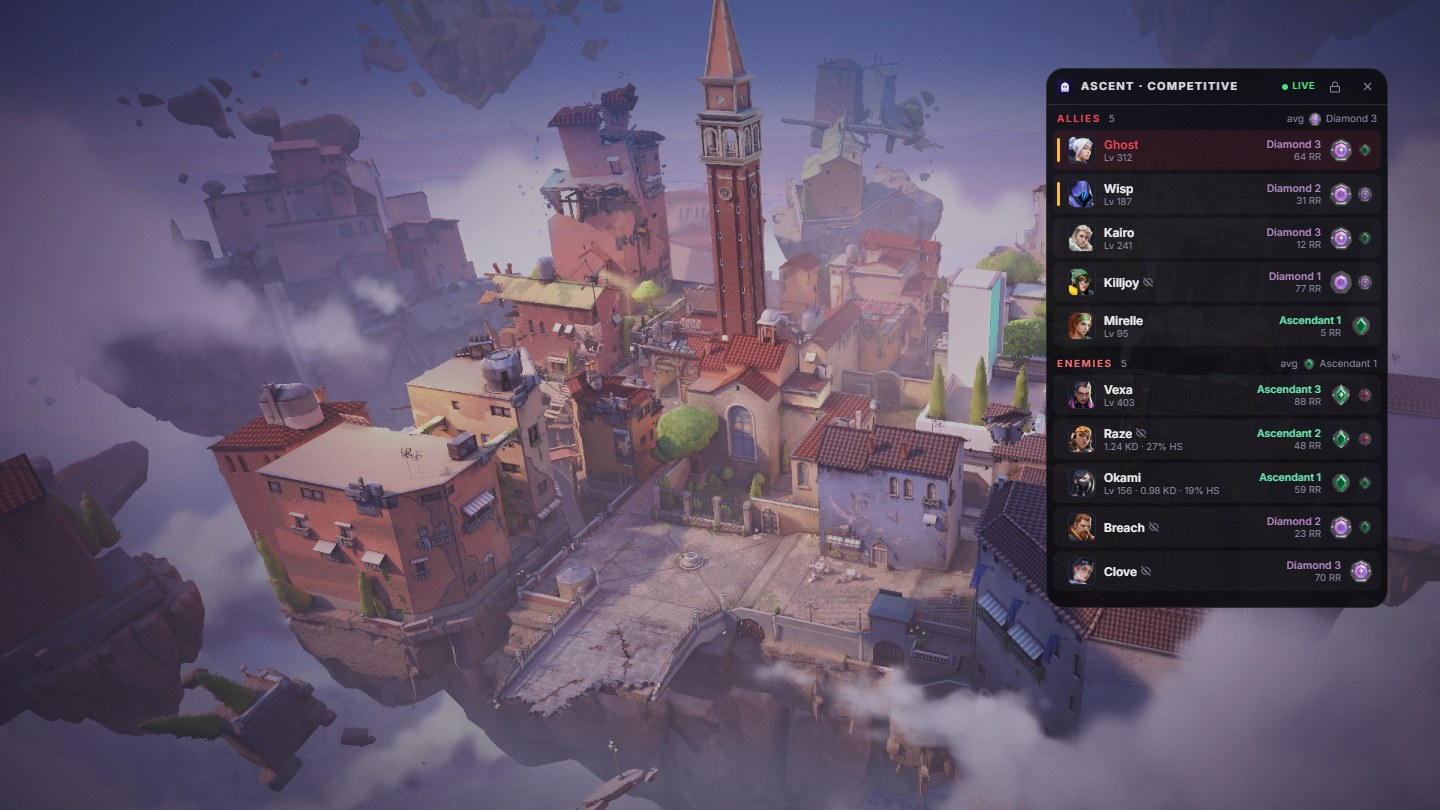
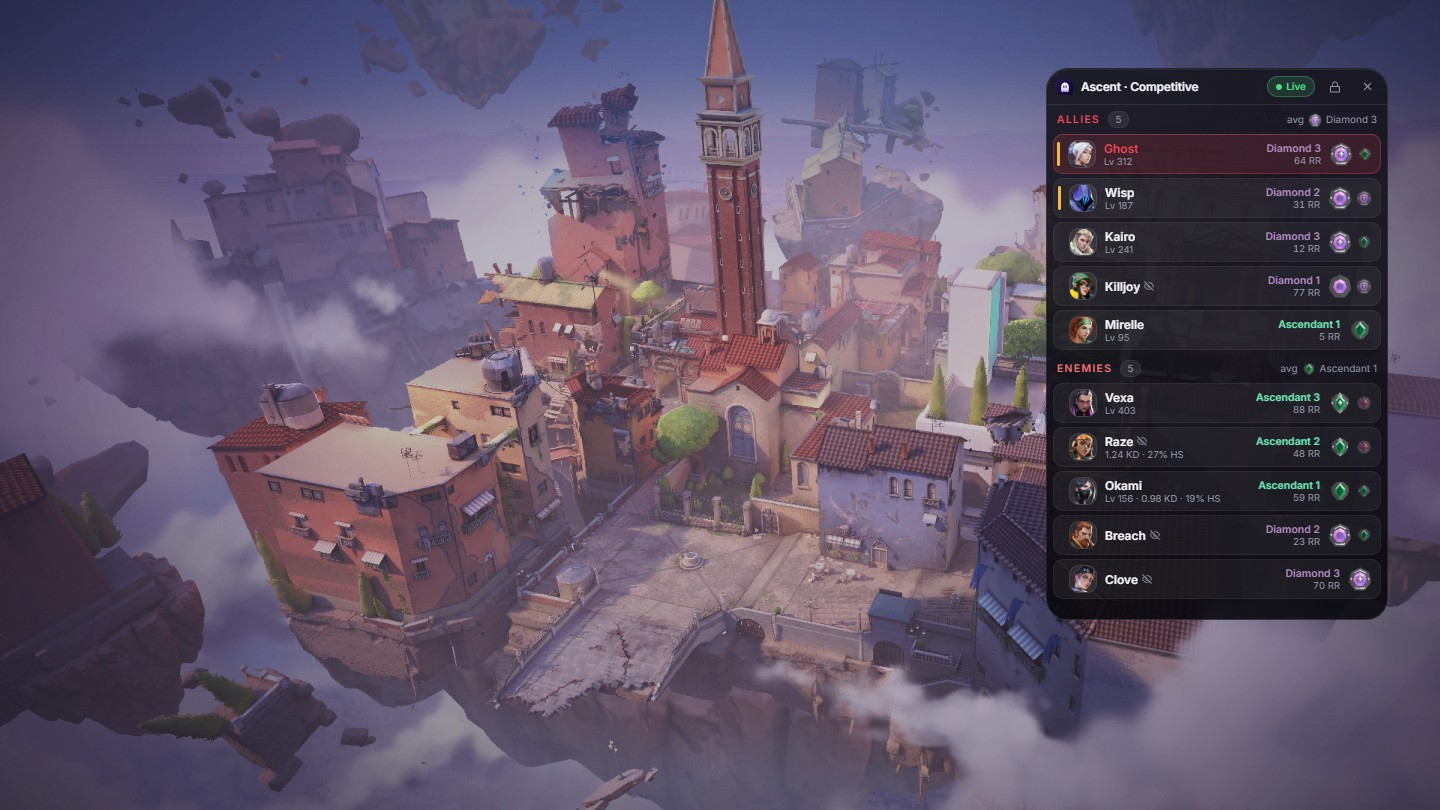
New glass screenshots for the README and website
Recaptured with sample data, re-cropped the website feature art and listed
all twelve themes on the site. Also keeps short player names from truncating
in match rows and keeps the overlay window's page transparent.

Changed region(s): [[0.7188, 0.0926, 0.9688, 0.7716]]

diff --git a/docs/index.html b/docs/index.html
@@ -99,7 +99,7 @@
     <section class="wrap stats glass reveal" aria-label="At a glance">
       <div><b data-bind="version">Free</b><span data-bind="version-label">And open source</span></div>
       <div><b data-bind="downloads">Win 11</b><span data-bind="downloads-label">And Windows 10</span></div>
-      <div><b>7</b><span>Themes</span></div>
+      <div><b>12</b><span>Themes</span></div>
       <div><b>0</b><span>Telemetry</span></div>
     </section>
 
@@ -153,7 +153,7 @@
             <h3>Live Match</h3>
             <p>Every player's current-act rank, RR and peak, with their Vandal and Phantom skins. Click anyone to Scout them: rank history, recent form and their last 10 competitive matches.</p>
           </div>
-          <img class="card-art" src="site/art-scout.webp" width="810" height="720" alt="" loading="lazy">
+          <img class="card-art" src="site/art-scout.webp" width="795" height="720" alt="" loading="lazy">
         </article>
         <article class="card glass reveal">
           <span class="card-icon"><svg class="i"><use href="#i-users"/></svg></span>
@@ -196,8 +196,8 @@
         <article class="card glass span-2 themes reveal">
           <div class="card-body">
             <span class="card-icon"><svg class="i"><use href="#i-drop"/></svg></span>
-            <h3>Seven themes</h3>
-            <p>From Midnight to Gilded. Try one: this page follows along.</p>
+            <h3>Twelve themes</h3>
+            <p>From Midnight to the light Pearl. Try one: this page follows along.</p>
           </div>
           <div class="swatches" role="group" aria-label="Theme">
             <button type="button" data-theme="midnight" style="--sw:255 70 85" aria-label="Midnight"></button>
@@ -207,6 +207,11 @@
             <button type="button" data-theme="verdant" style="--sw:62 220 140" aria-label="Verdant"></button>
             <button type="button" data-theme="amethyst" style="--sw:176 120 255" aria-label="Amethyst"></button>
             <button type="button" data-theme="gilded" style="--sw:232 190 90" aria-label="Gilded"></button>
+            <button type="button" data-theme="aurora" style="--sw:45 212 191" aria-label="Aurora"></button>
+            <button type="button" data-theme="sakura" style="--sw:255 121 176" aria-label="Sakura"></button>
+            <button type="button" data-theme="abyss" style="--sw:92 132 255" aria-label="Abyss"></button>
+            <button type="button" data-theme="sunset" style="--sw:255 94 140" aria-label="Sunset"></button>
+            <button type="button" data-theme="pearl" style="--sw:99 91 255" aria-label="Pearl"></button>
             <span class="swatch-name" data-bind="theme-name" aria-live="polite">Amethyst</span>
           </div>
         </article>

diff --git a/src/pages/live/PlayerRow.jsx b/src/pages/live/PlayerRow.jsx
@@ -55,9 +55,9 @@ export default function PlayerRow({ p, i, memo, onScout, onSkins }) {
         <div className='min-w-0 flex-1'>
           <div className='flex items-center gap-1.5 min-w-0'>
             {!p.puuid
-              ? <span className='text-[14px] font-semibold tracking-tight text-text truncate'>{displayName(p)}</span>
-              : <button className='text-[14px] font-semibold tracking-tight text-text truncate hover:text-accent transition-colors text-left' onClick={open} title='Open profile'>{displayName(p)}</button>}
-            {!p.hidden && p.tagLine && <span className='text-[11px] text-muted shrink-0'>#{p.tagLine}</span>}
+              ? <span className='text-[14px] font-semibold tracking-tight text-text truncate shrink-0 max-w-[65%]'>{displayName(p)}</span>
+              : <button className='text-[14px] font-semibold tracking-tight text-text truncate shrink-0 max-w-[65%] hover:text-accent transition-colors text-left' onClick={open} title='Open profile'>{displayName(p)}</button>}
+            {!p.hidden && p.tagLine && <span className='text-[11px] text-muted truncate'>#{p.tagLine}</span>}
             {!p.hidden && p.tagLine && <button className='text-muted hover:text-text transition-colors shrink-0' onClick={copy} title='Copy Riot ID'><FiCopy size={11} /></button>}
             {p.hidden && <span className='text-muted shrink-0' title='Name hidden by streamer mode'><FiEyeOff size={12} /></span>}
             {p.self && <Badge tone='accent'>You</Badge>}

diff --git a/docs/site/app.js b/docs/site/app.js
@@ -9,7 +9,7 @@ const store = {
   set: (k, v) => { try { localStorage.setItem(k, v) } catch {} },
 }
 
-// Themes: the same seven as the app. The page defaults to Amethyst to match the ghost logo.
+// Themes: the same twelve as the app. The page defaults to Amethyst to match the ghost logo.
 const THEMES = {
   midnight: ['Midnight', '255 70 85', '255 140 120'],
   onyx: ['Onyx', '235 235 235', '160 160 160'],
@@ -18,6 +18,11 @@ const THEMES = {
   verdant: ['Verdant', '62 220 140', '160 240 190'],
   amethyst: ['Amethyst', '176 120 255', '230 160 255'],
   gilded: ['Gilded', '232 190 90', '255 225 150'],
+  aurora: ['Aurora', '45 212 191', '167 139 250'],
+  sakura: ['Sakura', '255 121 176', '255 190 215'],
+  abyss: ['Abyss', '92 132 255', '120 220 255'],
+  sunset: ['Sunset', '255 94 140', '255 176 92'],
+  pearl: ['Pearl', '99 91 255', '214 92 255'],
 }
 function setTheme(key, save) {
   const t = THEMES[key]

diff --git a/src/pages/Overlay.jsx b/src/pages/Overlay.jsx
@@ -81,10 +81,13 @@ export default function Overlay() {
   const d = live.data
 
   useEffect(() => {
-    const prev = [document.documentElement.style.background, document.body.style.background]
-    document.documentElement.style.background = 'transparent'
+    // color-scheme: normal too, so the dark theme's color-scheme never paints an opaque page behind the panel.
+    const root = document.documentElement.style
+    const prev = [root.background, root.colorScheme, document.body.style.background]
+    root.background = 'transparent'
+    root.colorScheme = 'normal'
     document.body.style.background = 'transparent'
-    return () => { document.documentElement.style.background = prev[0]; document.body.style.background = prev[1] }
+    return () => { root.background = prev[0]; root.colorScheme = prev[1]; document.body.style.background = prev[2] }
   }, [])
 
   const inMatch = d && d.state !== 'menus'
